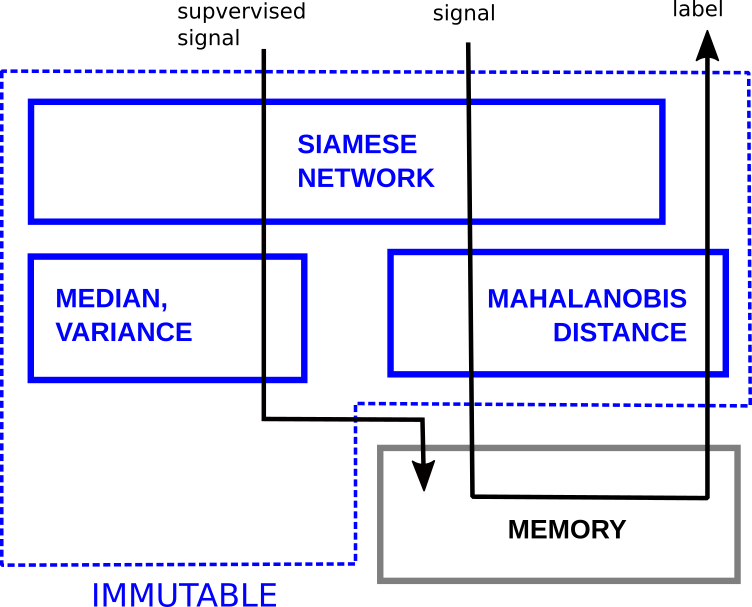
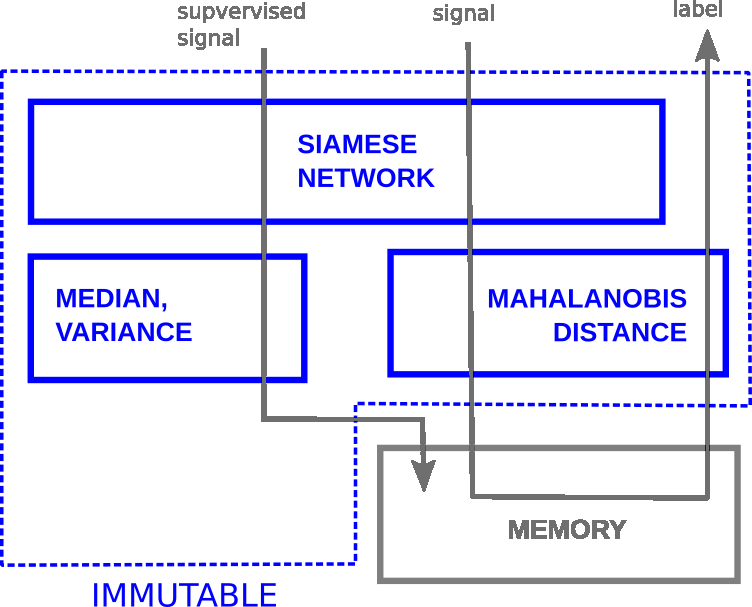
updated images to Github's dark mode

diff --git a/README.md b/README.md
@@ -106,16 +106,3 @@ It is challenging to say the least, but it is arguably *not* a lifelong busines
 
 I haven't included the compressor in my code.
 I imagine the array quickly gets too large for real life purposes, so you might want to routinely compress its content thanks to yet another hard-wired algorithm.
-
-#### Notes on multi-task learning
-
-In my humble opinion, the crux of the problem is not solved by conventional [multi-task learning](https://en.wikipedia.org/wiki/Multi-task_learning), which leaves open the questions of how to switch between tasks and how to refine task skills in a way that withstands [interference](https://en.wikipedia.org/wiki/Catastrophic_interference).
-
-In an [MTL](https://en.wikipedia.org/wiki/Multi-task_learning) setting, either you know beforehand the task to be executed, or you purposely run all the tasks in parallel. There are some situations where executing all the tasks at once makes sense, but this doesn't fit the general case. At the end of the day, you will have to train an interference-free model to route sensory inputs to the relevant tasks or to inhibit task outputs *a posteriori* (task post-selection).
-
-I will try to challenge my own assumptions in a follow-up project. For the time being, I will argue that MTL in its current form, while being a possible piece of the puzzle, does not address the hardest problems raised by lifelong learning. MTL and [curriculum learning](http://citeseerx.ist.psu.edu/viewdoc/summary?doi=10.1.1.149.4701) help a lot with regard to training efficiency and scalability, but any MTL algorithm, however advanced, is functionally equivalent to separating tasks in a trivial manner, casting doubt on whether any actionable progress is made toward in-the-wild lifelong learning.
-On this view, MTL and shallow "memory mapping" operate at a different level and potentially complement each other.
-
-<p align="center">
-  <img src="/images/mtl.png" width="350">
-</p>
